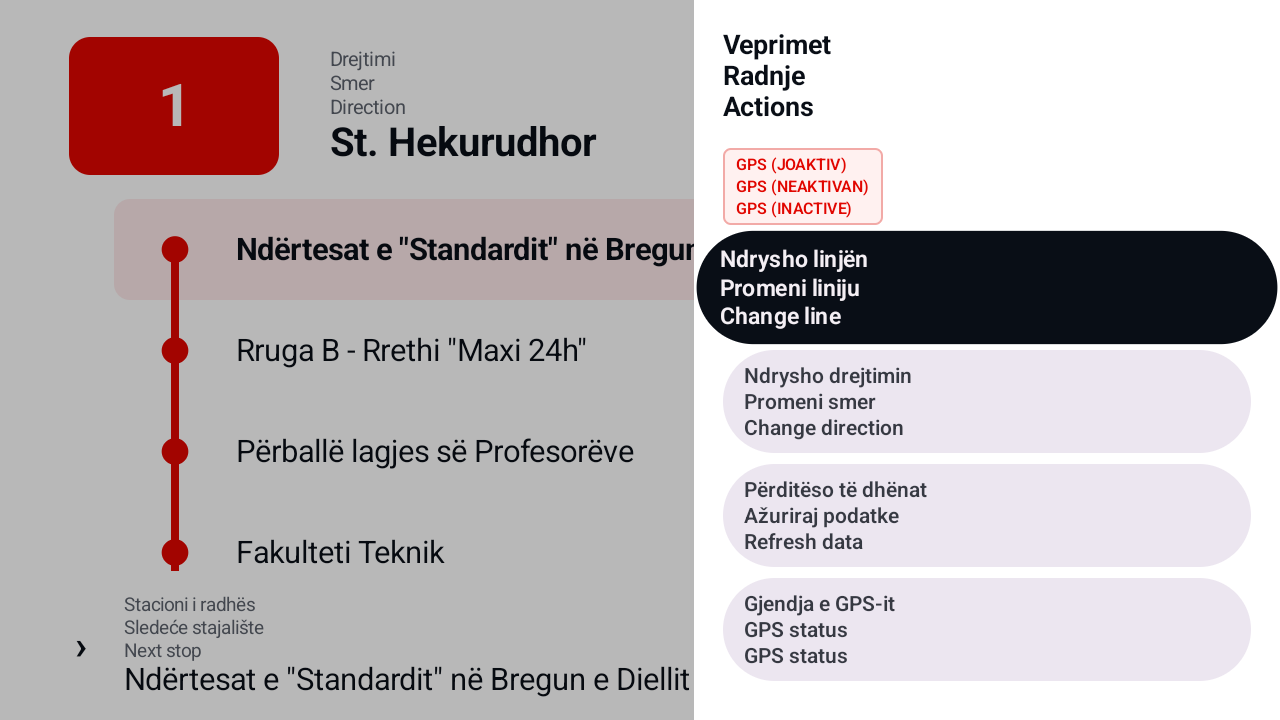
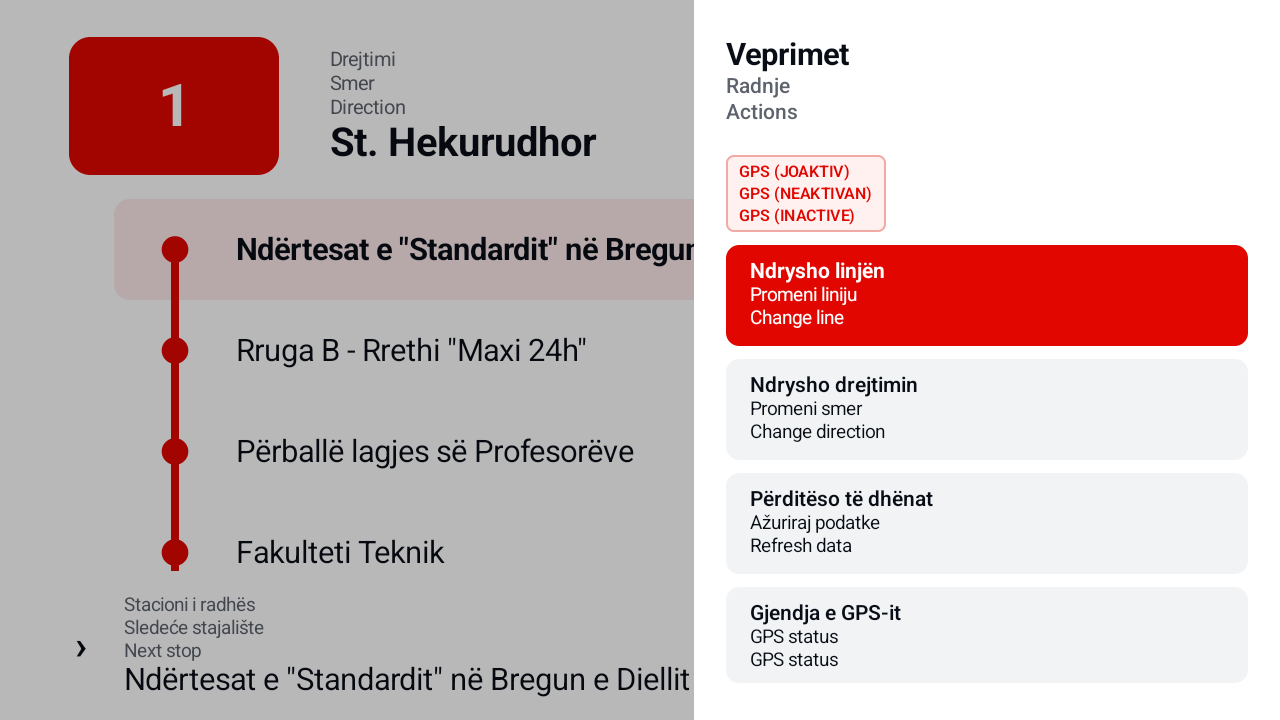
Refine operator panel controls
Replace oversized pill controls with stable rectangular TV buttons and improve the trilingual text hierarchy.

diff --git a/app/src/main/java/com/pelajstudios/trafiku/ui/route/RoutePanels.kt b/app/src/main/java/com/pelajstudios/trafiku/ui/route/RoutePanels.kt
@@ -8,6 +8,7 @@ import androidx.compose.foundation.layout.Arrangement
 import androidx.compose.foundation.layout.Box
 import androidx.compose.foundation.layout.Column
 import androidx.compose.foundation.layout.ColumnScope
+import androidx.compose.foundation.layout.PaddingValues
 import androidx.compose.foundation.layout.Row
 import androidx.compose.foundation.layout.Spacer
 import androidx.compose.foundation.layout.fillMaxHeight
@@ -29,13 +30,18 @@ import androidx.compose.ui.text.font.FontWeight
 import androidx.compose.ui.unit.dp
 import androidx.compose.ui.unit.sp
 import androidx.tv.material3.Button
+import androidx.tv.material3.ButtonDefaults
 import androidx.tv.material3.MaterialTheme
 import androidx.tv.material3.Text
 import com.pelajstudios.trafiku.R
 import com.pelajstudios.trafiku.ui.app.GpsUiStatus
-import com.pelajstudios.trafiku.ui.app.trilingualStringResource
 import com.pelajstudios.trafiku.ui.app.TrafikuUiState
+import com.pelajstudios.trafiku.ui.app.trilingualStringResource
+import com.pelajstudios.trafiku.ui.theme.TrafikuMutedText
+import com.pelajstudios.trafiku.ui.theme.TrafikuPanelActionBackground
+import com.pelajstudios.trafiku.ui.theme.TrafikuRed
 import com.pelajstudios.trafiku.ui.theme.TrafikuSurface
+import com.pelajstudios.trafiku.ui.theme.TrafikuText
 
 @Composable
 internal fun ActionPanel(
@@ -48,27 +54,29 @@ internal fun ActionPanel(
 ) {
     OverlayPanel(title = trilingualStringResource(R.string.actions), onClose = onClose) { firstFocus ->
         GpsStatusBadge(status = state.gpsStatus)
-        Button(
+        PanelActionButton(
+            text = trilingualStringResource(R.string.change_line),
             onClick = onChangeLine,
             modifier = Modifier
                 .focusRequester(firstFocus)
                 .fillMaxWidth(),
-        ) {
-            PanelButtonLabel(trilingualStringResource(R.string.change_line))
-        }
-        Button(onClick = onChangeDirection, modifier = Modifier.fillMaxWidth()) {
-            PanelButtonLabel(trilingualStringResource(R.string.change_direction))
-        }
-        Button(
+        )
+        PanelActionButton(
+            text = trilingualStringResource(R.string.change_direction),
+            onClick = onChangeDirection,
+            modifier = Modifier.fillMaxWidth(),
+        )
+        PanelActionButton(
+            text = trilingualStringResource(R.string.refresh_data),
             onClick = onRefresh,
             enabled = !state.isRefreshing,
             modifier = Modifier.fillMaxWidth(),
-        ) {
-            PanelButtonLabel(trilingualStringResource(R.string.refresh_data))
-        }
-        Button(onClick = onShowGpsDetails, modifier = Modifier.fillMaxWidth()) {
-            PanelButtonLabel(trilingualStringResource(R.string.gps_status))
-        }
+        )
+        PanelActionButton(
+            text = trilingualStringResource(R.string.gps_status),
+            onClick = onShowGpsDetails,
+            modifier = Modifier.fillMaxWidth(),
+        )
     }
 }
 
@@ -84,37 +92,37 @@ internal fun GpsPanel(
         title = trilingualStringResource(R.string.gps_status),
         onClose = onClose,
     ) { firstFocus ->
-        Button(
+        PanelActionButton(
+            text = trilingualStringResource(R.string.close),
             onClick = onClose,
             modifier = Modifier
                 .focusRequester(firstFocus)
                 .fillMaxWidth(),
-        ) {
-            PanelButtonLabel(trilingualStringResource(R.string.close))
-        }
+        )
         if (state.gpsStatus == GpsUiStatus.LocationPermissionRequired) {
-            Button(
+            PanelActionButton(
+                text = trilingualStringResource(R.string.allow_location),
                 onClick = onRequestLocationPermission,
                 modifier = Modifier.fillMaxWidth(),
-            ) {
-                PanelButtonLabel(trilingualStringResource(R.string.allow_location))
-            }
+            )
         }
         if (state.gpsStatus is GpsUiStatus.UsbPermissionRequired) {
-            Button(onClick = onRequestUsbPermission, modifier = Modifier.fillMaxWidth()) {
-                PanelButtonLabel(trilingualStringResource(R.string.allow_usb))
-            }
+            PanelActionButton(
+                text = trilingualStringResource(R.string.allow_usb),
+                onClick = onRequestUsbPermission,
+                modifier = Modifier.fillMaxWidth(),
+            )
         }
         if (state.simulationSupported) {
-            Button(onClick = onToggleSimulation, modifier = Modifier.fillMaxWidth()) {
-                PanelButtonLabel(
-                    if (state.simulationEnabled) {
-                        trilingualStringResource(R.string.stop_simulator)
-                    } else {
-                        trilingualStringResource(R.string.start_simulator)
-                    },
-                )
-            }
+            PanelActionButton(
+                text = if (state.simulationEnabled) {
+                    trilingualStringResource(R.string.stop_simulator)
+                } else {
+                    trilingualStringResource(R.string.start_simulator)
+                },
+                onClick = onToggleSimulation,
+                modifier = Modifier.fillMaxWidth(),
+            )
         }
     }
 }
@@ -143,18 +151,13 @@ private fun OverlayPanel(
                 .background(TrafikuSurface),
         ) {
             Column(
-                modifier = Modifier.padding(22.dp),
-                verticalArrangement = Arrangement.spacedBy(8.dp),
+                modifier = Modifier
+                    .fillMaxWidth()
+                    .padding(horizontal = 24.dp, vertical = 28.dp),
+                verticalArrangement = Arrangement.spacedBy(10.dp),
             ) {
-                Text(
-                    text = title,
-                    fontWeight = FontWeight.Bold,
-                    style = MaterialTheme.typography.bodyLarge.copy(
-                        fontSize = 20.sp,
-                        lineHeight = 23.sp,
-                    ),
-                )
-                Spacer(modifier = Modifier.height(2.dp))
+                PanelTitle(title)
+                Spacer(modifier = Modifier.height(4.dp))
                 content(firstFocus)
             }
         }
@@ -205,13 +208,85 @@ internal fun ExitConfirmation(onExit: () -> Unit, onCancel: () -> Unit) {
 }
 
 @Composable
-private fun PanelButtonLabel(text: String) {
-    Text(
-        text = text,
-        maxLines = 3,
-        style = MaterialTheme.typography.labelLarge.copy(
-            fontSize = 16.sp,
-            lineHeight = 19.sp,
+private fun PanelActionButton(
+    text: String,
+    onClick: () -> Unit,
+    modifier: Modifier = Modifier,
+    enabled: Boolean = true,
+) {
+    val shape = RoundedCornerShape(10.dp)
+    Button(
+        onClick = onClick,
+        modifier = modifier.height(76.dp),
+        enabled = enabled,
+        scale = ButtonDefaults.scale(
+            focusedScale = 1.0F,
+            pressedScale = 0.98F,
         ),
-    )
+        shape = ButtonDefaults.shape(
+            shape = shape,
+            focusedShape = shape,
+            pressedShape = shape,
+            disabledShape = shape,
+        ),
+        colors = ButtonDefaults.colors(
+            containerColor = TrafikuPanelActionBackground,
+            contentColor = TrafikuText,
+            focusedContainerColor = TrafikuRed,
+            focusedContentColor = Color.White,
+            pressedContainerColor = TrafikuRed,
+            pressedContentColor = Color.White,
+            disabledContainerColor = TrafikuPanelActionBackground.copy(alpha = 0.45F),
+            disabledContentColor = TrafikuMutedText.copy(alpha = 0.55F),
+        ),
+        contentPadding = PaddingValues(horizontal = 18.dp, vertical = 10.dp),
+    ) {
+        PanelButtonLabel(
+            text = text,
+            modifier = Modifier.fillMaxWidth(),
+        )
+    }
+}
+
+@Composable
+private fun PanelTitle(text: String) {
+    val lines = remember(text) { text.lines().filter(String::isNotBlank) }
+    Column(verticalArrangement = Arrangement.spacedBy(1.dp)) {
+        lines.forEachIndexed { index, line ->
+            Text(
+                text = line,
+                color = if (index == 0) TrafikuText else TrafikuMutedText,
+                fontWeight = if (index == 0) FontWeight.Bold else FontWeight.Medium,
+                maxLines = 1,
+                style = MaterialTheme.typography.bodyLarge.copy(
+                    fontSize = if (index == 0) 23.sp else 16.sp,
+                    lineHeight = if (index == 0) 27.sp else 19.sp,
+                ),
+            )
+        }
+    }
+}
+
+@Composable
+private fun PanelButtonLabel(
+    text: String,
+    modifier: Modifier = Modifier,
+) {
+    val lines = remember(text) { text.lines().filter(String::isNotBlank) }
+    Column(
+        modifier = modifier,
+        verticalArrangement = Arrangement.spacedBy(1.dp),
+    ) {
+        lines.forEachIndexed { index, line ->
+            Text(
+                text = line,
+                fontWeight = if (index == 0) FontWeight.SemiBold else FontWeight.Normal,
+                maxLines = 1,
+                style = MaterialTheme.typography.labelLarge.copy(
+                    fontSize = if (index == 0) 16.sp else 14.sp,
+                    lineHeight = if (index == 0) 20.sp else 17.sp,
+                ),
+            )
+        }
+    }
 }

diff --git a/app/src/main/java/com/pelajstudios/trafiku/ui/theme/Color.kt b/app/src/main/java/com/pelajstudios/trafiku/ui/theme/Color.kt
@@ -16,3 +16,4 @@ val TrafikuMutedText = Color(0xFF5D636D)
 val TrafikuPast = Color(0xFF9AA0A6)
 val TrafikuNextBackground = Color(0xFFFDE9EA)
 val TrafikuDivider = Color(0xFFE1E4E8)
+val TrafikuPanelActionBackground = Color(0xFFF1F3F5)
